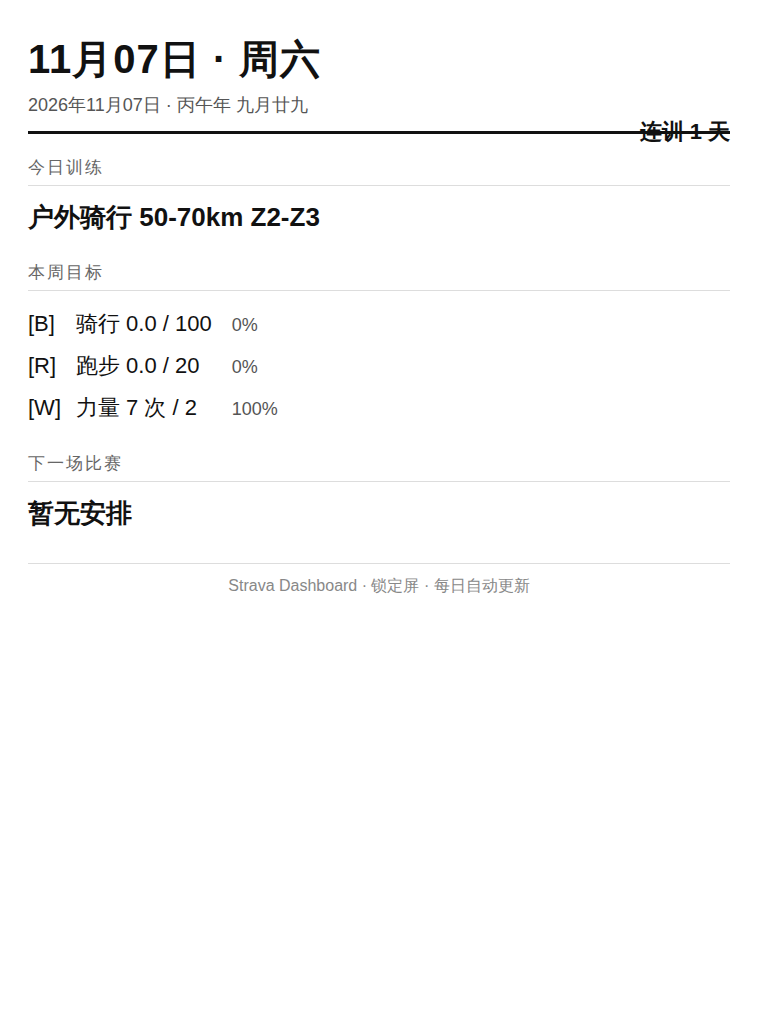
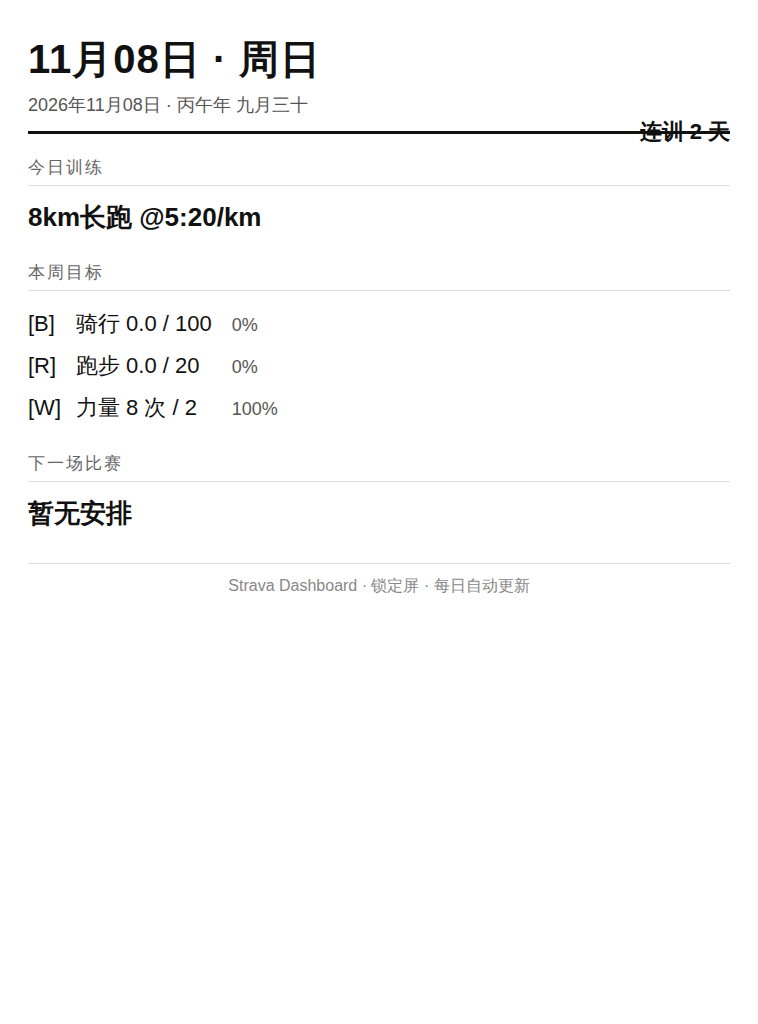
chore: daily data update 2026-11-08

diff --git a/output/screensaver.html b/output/screensaver.html
@@ -3,7 +3,7 @@
 <head>
 <meta charset="utf-8">
 <meta name="viewport" content="width=device-width, initial-scale=1">
-<title>训练屏保 · 11.07</title>
+<title>训练屏保 · 11.08</title>
 <style>
   body {
     margin: 0; padding: 32px 28px;
@@ -46,19 +46,19 @@
 </head>
 <body>
   <div class="header">
-    <div class="date">11月07日 · 周六</div>
-    <div class="sub">2026年11月07日 · 丙午年 九月廿九</div>
-    <div class="streak">连训 1 天</div>
+    <div class="date">11月08日 · 周日</div>
+    <div class="sub">2026年11月08日 · 丙午年 九月三十</div>
+    <div class="streak">连训 2 天</div>
   </div>
 
   <div class="block">
     <div class="block-title">今日训练</div>
-    <div class="today">户外骑行 50-70km Z2-Z3</div>
+    <div class="today">8km长跑 @5:20/km</div>
   </div>
 
   <div class="block">
     <div class="block-title">本周目标</div>
-    <div class="goal-row"><span class="g-icon">[B]</span><span class="g-val">骑行 0.0 / 100</span><span class="g-bar"><i style="width:0%"></i></span><span class="g-pct">0%</span></div><div class="goal-row"><span class="g-icon">[R]</span><span class="g-val">跑步 0.0 / 20</span><span class="g-bar"><i style="width:0%"></i></span><span class="g-pct">0%</span></div><div class="goal-row"><span class="g-icon">[W]</span><span class="g-val">力量 7 次 / 2</span><span class="g-bar"><i style="width:100%"></i></span><span class="g-pct">100%</span></div>
+    <div class="goal-row"><span class="g-icon">[B]</span><span class="g-val">骑行 0.0 / 100</span><span class="g-bar"><i style="width:0%"></i></span><span class="g-pct">0%</span></div><div class="goal-row"><span class="g-icon">[R]</span><span class="g-val">跑步 0.0 / 20</span><span class="g-bar"><i style="width:0%"></i></span><span class="g-pct">0%</span></div><div class="goal-row"><span class="g-icon">[W]</span><span class="g-val">力量 8 次 / 2</span><span class="g-bar"><i style="width:100%"></i></span><span class="g-pct">100%</span></div>
   </div>
 
   <div class="block">
